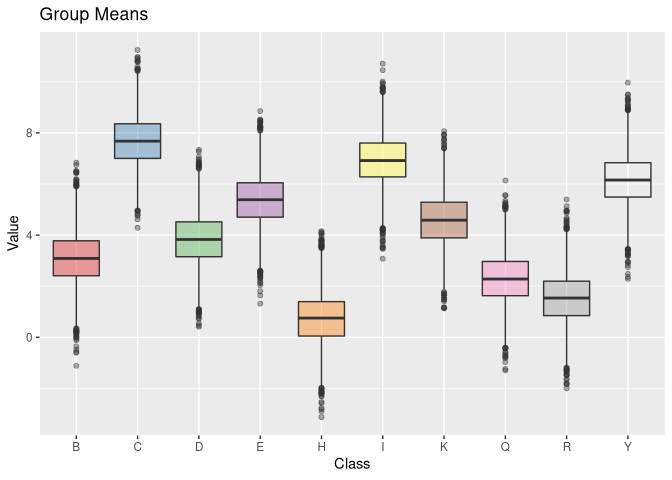
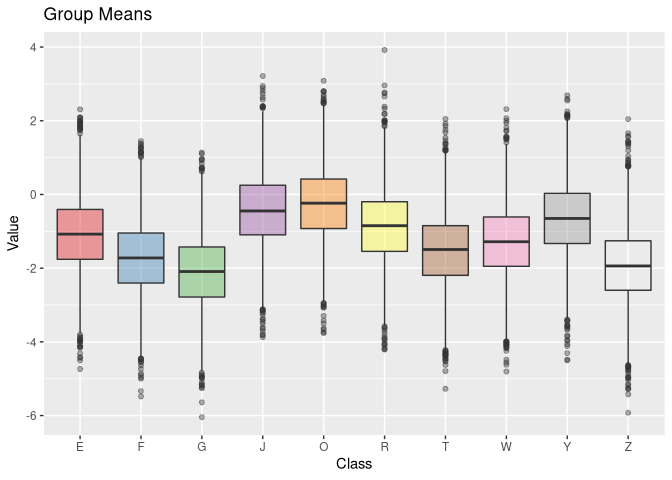
update stuff

diff --git a/benchmarks/binary-vs-ridge-vs-linear/binary-vs-ridge-vs-linear.md b/benchmarks/binary-vs-ridge-vs-linear/binary-vs-ridge-vs-linear.md
@@ -1,0 +1,168 @@
+
+<!-- README.md is generated from README.Rmd. Please edit that file -->
+
+# Binary vs. Ridge vs. Individual Linear Base-Learner
+
+## Load compboost
+
+``` r
+Rcpp::compileAttributes("~/repos/compboost")
+devtools::load_all( "~/repos/compboost")
+#> Loading compboost
+```
+
+## Simulate data
+
+``` r
+# Simulate Data:
+nclasses = 10L
+nsim = 50000L
+
+classes = sample(x = LETTERS, size = nclasses)
+gmean = sample(nclasses) * rnorm(1)
+
+idx = sample(x = seq_len(nclasses), size = nsim, replace = TRUE)
+
+x = classes[idx]
+y = gmean[idx] + rnorm(nsim)
+
+df_cat = data.frame(x = x, y = y)
+
+library(ggplot2)
+ggplot(data = df_cat, aes(x = x, y = y, fill = x)) +
+  geom_boxplot(alpha = 0.4, show.legend = FALSE) +
+  scale_fill_brewer(palette = "Set1") +
+  xlab("Class") +
+  ylab("Value") +
+  ggtitle("Group Means")
+#> Warning in RColorBrewer::brewer.pal(n, pal): n too large, allowed maximum for palette Set1 is 9
+#> Returning the palette you asked for with that many colors
+```
+
+![](files-ridge-vs-linear/unnamed-chunk-3-1.png)<!-- -->
+
+## Set parameter for compboost
+
+``` r
+learning_rate = 0.05
+iter_max      = 2000L
+```
+
+## Fit linear model for each category in feature (current state of the art)
+
+``` r
+cboost_lin = Compboost$new(data = df_cat, target = "y", loss = LossQuadratic$new())
+cboost_lin$addBaselearner(feature = "x", id = "category", bl_factory = BaselearnerPolynomial, intercept = FALSE)
+cboost_lin$train(iter_max, trace = as.integer(iter_max / 4))
+#>    1/2000   risk = 0.67  
+#>  500/2000   risk = 0.5  
+#> 1000/2000   risk = 0.5  
+#> 1500/2000   risk = 0.5  
+#> 2000/2000   risk = 0.5  
+#> 
+#> 
+#> Train 2000 iterations in 6 Seconds.
+#> Final risk based on the train set: 0.5
+```
+
+## Fit ridge regression on categorical feature
+
+``` r
+response = ResponseRegr$new("mpg", as.matrix(df_cat$y))
+
+cdata_source = CategoricalData$new(df_cat$x, "x")
+bl = BaselearnerCategoricalRidge$new(cdata_source, list(df = 3))
+
+factory_list = BlearnerFactoryList$new()
+factory_list$registerFactory(bl)
+
+loss_quadratic = LossQuadratic$new()
+optimizer = OptimizerCoordinateDescent$new()
+
+log_iterations = LoggerIteration$new(" iterations", TRUE, iter_max)
+logger_list = LoggerList$new()
+logger_list$registerLogger(log_iterations)
+
+cboost_ridge = Compboost_internal$new(
+  response      = response,
+  learning_rate = learning_rate,
+  stop_if_all_stopper_fulfilled = FALSE,
+  factory_list = factory_list,
+  loss         = loss_quadratic,
+  logger_list  = logger_list,
+  optimizer    = optimizer
+)
+cboost_ridge$train(trace = as.integer(iter_max / 4))
+#>    1/2000   risk = 0.66  
+#>  500/2000   risk = 0.5  
+#> 1000/2000   risk = 0.5  
+#> 1500/2000   risk = 0.5  
+#> 2000/2000   risk = 0.5  
+#> 
+#> 
+#> Train 2000 iterations in 3 Seconds.
+#> Final risk based on the train set: 0.5
+```
+
+## Fit ridge regression on categorical feature with binary base-learner
+
+``` r
+response = ResponseRegr$new("y", as.matrix(df_cat$y))
+
+cdata_source = CategoricalData$new(df_cat$x, "x")
+
+bl_list = lapply(classes, function (cl) BaselearnerCategoricalBinary$new(cdata_source, cl))
+
+factory_list = BlearnerFactoryList$new()
+temp = lapply(bl_list, function (bl) factory_list$registerFactory(bl))
+
+loss_quadratic = LossQuadratic$new()
+optimizer = OptimizerCoordinateDescent$new()
+
+log_iterations = LoggerIteration$new(" iterations", TRUE, iter_max)
+logger_list = LoggerList$new()
+logger_list$registerLogger(log_iterations)
+
+cboost_binary = Compboost_internal$new(
+  response      = response,
+  learning_rate = learning_rate,
+  stop_if_all_stopper_fulfilled = FALSE,
+  factory_list = factory_list,
+  loss         = loss_quadratic,
+  logger_list  = logger_list,
+  optimizer    = optimizer
+)
+cboost_binary$train(trace = as.integer(iter_max / 4))
+#>    1/2000   risk = 0.67  
+#>  500/2000   risk = 0.5  
+#> 1000/2000   risk = 0.5  
+#> 1500/2000   risk = 0.5  
+#> 2000/2000   risk = 0.5  
+#> 
+#> 
+#> Train 2000 iterations in 3 Seconds.
+#> Final risk based on the train set: 0.5
+```
+
+## Compare Estimates
+
+|         | Real.Means | Estimate.Ridge | Estimate.Binary | Estimate.Linear..Binary. |
+| ------- | ---------: | -------------: | --------------: | -----------------------: |
+| x\_x\_G |   \-2.1506 |       \-2.1135 |        \-2.1135 |                 \-2.1135 |
+| x\_x\_Z |   \-1.9355 |       \-1.9305 |        \-1.9305 |                 \-1.9305 |
+| x\_x\_F |   \-1.7204 |       \-1.7273 |        \-1.7272 |                 \-1.7272 |
+| x\_x\_T |   \-1.5054 |       \-1.5113 |        \-1.5112 |                 \-1.5112 |
+| x\_x\_W |   \-1.2903 |       \-1.2822 |        \-1.2822 |                 \-1.2822 |
+| x\_x\_E |   \-1.0753 |       \-1.0832 |        \-1.0833 |                 \-1.0833 |
+| x\_x\_R |   \-0.8602 |       \-0.8578 |        \-0.8579 |                 \-0.8579 |
+| x\_x\_Y |   \-0.6452 |       \-0.6503 |        \-0.6503 |                 \-0.6503 |
+| x\_x\_J |   \-0.4301 |       \-0.4328 |        \-0.4328 |                 \-0.4328 |
+| x\_x\_O |   \-0.2151 |       \-0.2494 |        \-0.2494 |                 \-0.2494 |
+
+## Microbenchmark
+
+| expr   |    min |     lq |   mean | median |     uq |    max | neval |
+| :----- | -----: | -----: | -----: | -----: | -----: | -----: | ----: |
+| linear | 10.110 | 10.580 | 10.695 | 10.618 | 10.735 | 12.102 |    20 |
+| ridge  |  3.668 |  3.860 |  3.869 |  3.888 |  3.919 |  4.026 |    20 |
+| binary |  4.971 |  5.253 |  5.251 |  5.280 |  5.299 |  5.559 |    20 |
